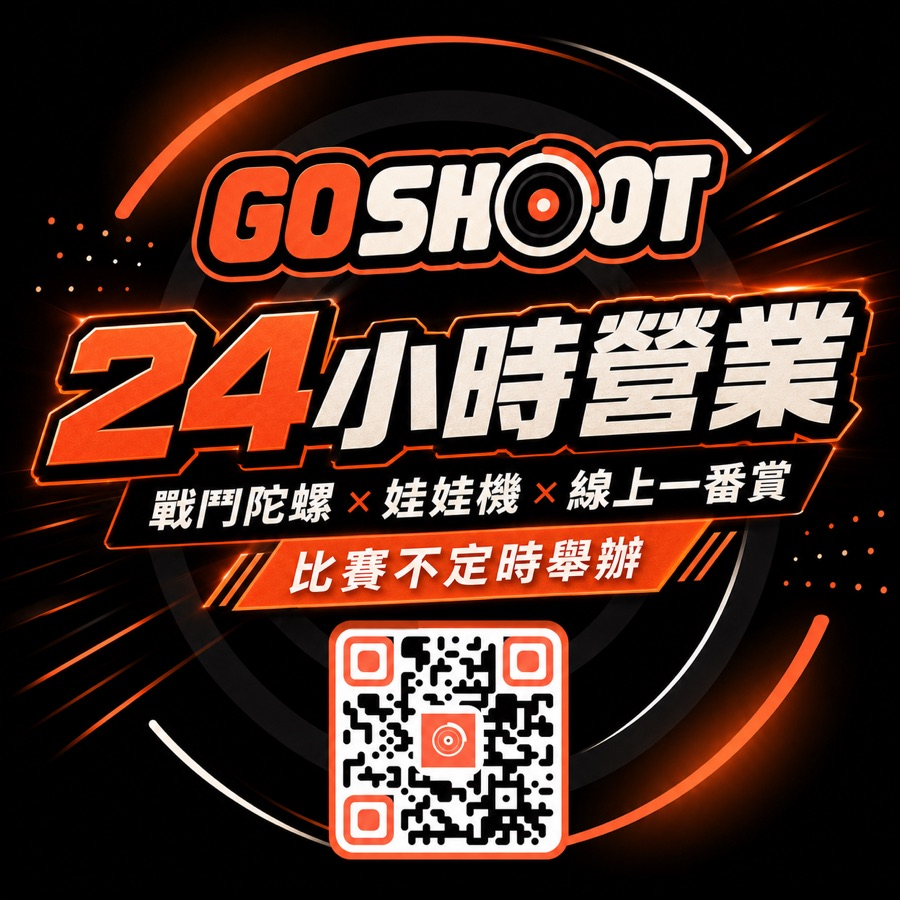
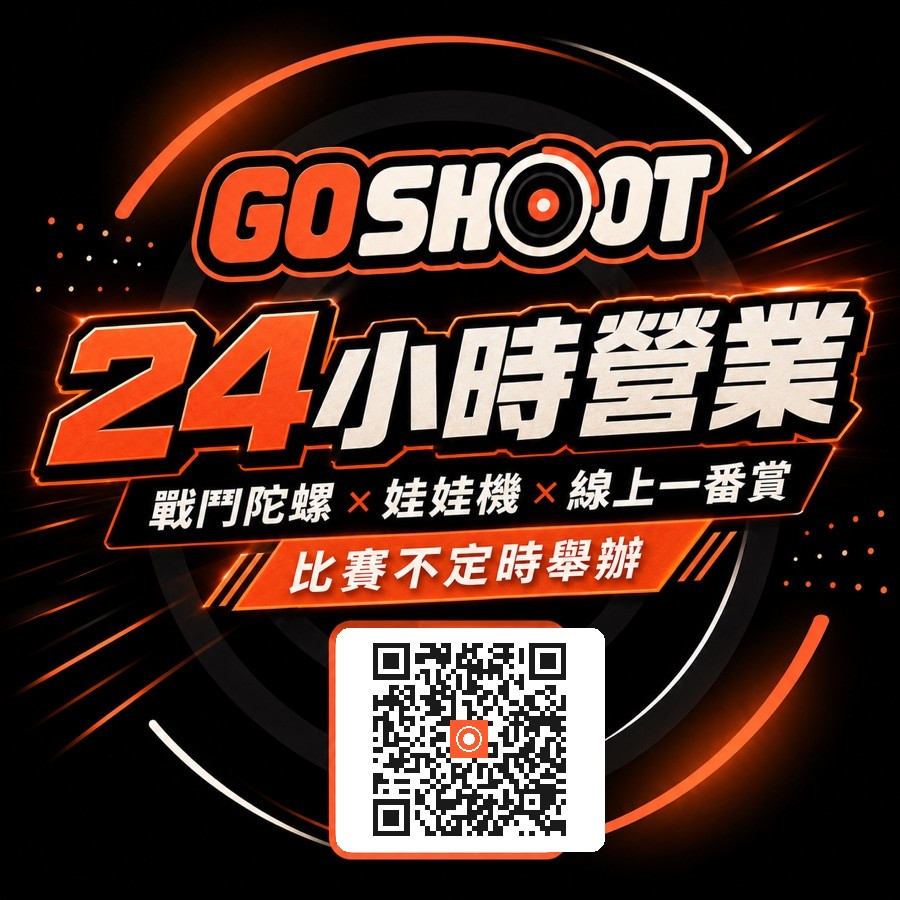
feat(vi): ichiban.html 店內廣告主題化＋假 QR 修真——teddy/promo-24h 兩張素材的 AI 假 QR 換真碼（指向 app /draw，OpenCV 解碼驗證通過）；hero 紫 blob 退役換橘；怎麼玩區換官方五步抽獎流程圖（流程-五步抽獎圖）；CTA band 黑橘漸層＋S 賞中獎海報 blend

Changed region(s): [[0.3733, 0.6844, 0.6844, 0.9644]]

diff --git a/ichiban.html b/ichiban.html
@@ -170,7 +170,7 @@ footer a{color:var(--gs-orange)}
 <header class="hero">
   <div class="hero-bgfx" aria-hidden="true">
     <span class="hero-blob" style="top:-30%;left:-10%;width:420px;height:420px;background:#FF5A2D"></span>
-    <span class="hero-blob b2" style="top:-10%;right:-12%;width:460px;height:460px;background:#7B3FE4"></span>
+    <span class="hero-blob b2" style="top:-10%;right:-12%;width:460px;height:460px;background:#E24A2C"></span>
     <span class="hero-blob b3" style="bottom:-45%;left:30%;width:420px;height:420px;background:#E24A2C"></span>
     <span class="hero-blob b4" style="top:35%;right:22%;width:240px;height:240px;background:#FFC24B"></span>
     <div class="gsx-dots"></div>
@@ -218,7 +218,7 @@ footer a{color:var(--gs-orange)}
     <div class="step"><b>領取獎品</b><p>中獎後選宅配、到店取或折抵消費。</p></div>
   </div>
   <figure class="brandfig">
-    <img src="assets/brand/flow-5steps.jpg" alt="Go Shoot 線上一番賞抽獎流程五步驟圖解：選擇一番賞、進行抽獎、開獎動畫、查看獎品、速送到家" loading="lazy" decoding="async" width="1200" height="900">
+    <img src="assets/brand/flow-draw-5steps.jpg" alt="Go Shoot 線上一番賞抽獎流程五步驟圖解：選擇一番賞、進行抽獎、開獎動畫、查看獎品、運送到家" loading="lazy" decoding="async" width="1200" height="800">
     <figcaption>官方抽獎流程圖解——從選獎單到宅配到家，一張看懂</figcaption>
   </figure>
   <p style="margin-top:24px"><a class="btn btn-race" href="https://goshoot-ichiban.vercel.app/draw" target="_blank" rel="noopener">前往線上一番賞 →</a></p>
@@ -240,10 +240,14 @@ footer a{color:var(--gs-orange)}
 </div></section>
 
 <section><div class="wrap">
-  <div class="band">
-    <h2>現在就玩線上一番賞</h2>
-    <p>24 小時開抽、每抽必中、公開透明。手機點開就能玩。</p>
-    <a class="btn btn-race" href="https://goshoot-ichiban.vercel.app/draw" target="_blank" rel="noopener">立即抽一番賞 →</a>
+  <div class="band" style="position:relative;overflow:hidden;text-align:left;display:flex;align-items:center;gap:26px;flex-wrap:wrap;background:linear-gradient(120deg,#141416 0%,#2a1710 45%,#E24A2C 130%);border:1.5px solid rgba(255,90,45,.5)">
+    <img src="assets/brand/poster-s-win.jpg" alt="恭喜獲得 S 賞中獎海報" loading="lazy" decoding="async"
+      style="width:170px;height:auto;border-radius:14px;mix-blend-mode:screen;filter:contrast(1.1) saturate(1.05);transform:rotate(-5deg);flex-shrink:0">
+    <div style="flex:1;min-width:240px">
+      <h2>現在就玩線上一番賞</h2>
+      <p>24 小時開抽、每抽必中、公開透明。手機點開就能玩。下一個「恭喜獲得 S 賞」就是你。</p>
+      <a class="btn btn-race" href="https://goshoot-ichiban.vercel.app/draw" target="_blank" rel="noopener">立即抽一番賞 →</a>
+    </div>
   </div>
 </div></section>
 
